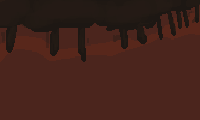
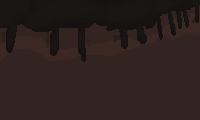
优化

Changed region(s): [[0.06, 0.025, 1.0, 0.525], [0.0, 0.35, 0.06, 0.525]]

diff --git a/PixelGame/src/scene/scenarios/ScenarioRoad.ts b/PixelGame/src/scene/scenarios/ScenarioRoad.ts
@@ -103,7 +103,7 @@ class ScenarioRoad extends Scenario{
         WheatupEvent.bind(EventType.DIALOGUE_END, this.onDialogueEnd, this);
         WheatupEvent.bind(EventType.ARRIVE, this.onArrive, this);
     }
-        
+    
     private unbindEvents():void{
         this.box_scene.removeEventListener(egret.TouchEvent.TOUCH_TAP, this.touchScene, this);
         this.box_engine.removeEventListener(egret.TouchEvent.TOUCH_TAP, this.touchEngine, this);
@@ -113,6 +113,10 @@ class ScenarioRoad extends Scenario{
         this.box_bush.removeEventListener(egret.TouchEvent.TOUCH_TAP, this.touchBush, this);
         WheatupEvent.unbind(EventType.DIALOGUE_END, this.onDialogueEnd);
         WheatupEvent.unbind(EventType.ARRIVE, this.onArrive);
+    }
+    
+    public onRemove(): void{
+        this.unbindEvents();
     }
 	
 	public start(): void{
@@ -133,6 +137,12 @@ class ScenarioRoad extends Scenario{
     private getConditions(): void {
         if(Data.getFlag(Flag.HasArrivedJungle)){
             this.setNight(0.7);
+            this.ui["bg1"].source = "bg_star";
+            this.ui["bg1_1"].source = "bg_star";
+            if(this.particle) {
+                this.grp_particle.removeElement(<any>this.particle);
+                this.particle = null;
+            }
         }
     }
     
@@ -160,14 +170,8 @@ class ScenarioRoad extends Scenario{
         this.ui["grp_bg1"].y = -(Math.round(this.cameraPosition.y * 0.2));
         this.ui["grp_playground"].x = -this.cameraPosition.x;
         this.ui["grp_playground"].y = -this.cameraPosition.y;
-        
-        
-//        this.grp_game.x = -this.cameraPosition.x;
-//        this.grp_game.y = -this.cameraPosition.y;
         this.grp_touch.x = -this.cameraPosition.x;
         this.grp_touch.y = -this.cameraPosition.y;
-        
-        
 	}
 	
     private touchScene(event: egret.TouchEvent):void{
@@ -263,9 +267,5 @@ class ScenarioRoad extends Scenario{
             Main.addScene(Main.LAYER_GAME, Main.scenarioBush);
             Main.scenarioBush.setPlayerPosition(30, 448);
         }
-    }
-    
-    public onRemove(): void{
-        this.unbindEvents();
     }
 }

diff --git a/PixelGame/bin-debug/src/scene/scenarios/ScenarioRoad.js b/PixelGame/bin-debug/src/scene/scenarios/ScenarioRoad.js
@@ -91,6 +91,9 @@ var ScenarioRoad = (function (_super) {
         WheatupEvent.unbind(EventType.DIALOGUE_END, this.onDialogueEnd);
         WheatupEvent.unbind(EventType.ARRIVE, this.onArrive);
     };
+    __egretProto__.onRemove = function () {
+        this.unbindEvents();
+    };
     __egretProto__.start = function () {
         this.getConditions();
         this.bindEvents();
@@ -108,6 +111,12 @@ var ScenarioRoad = (function (_super) {
     __egretProto__.getConditions = function () {
         if (Data.getFlag(1 /* HasArrivedJungle */)) {
             this.setNight(0.7);
+            this.ui["bg1"].source = "bg_star";
+            this.ui["bg1_1"].source = "bg_star";
+            if (this.particle) {
+                this.grp_particle.removeElement(this.particle);
+                this.particle = null;
+            }
         }
     };
     __egretProto__.update = function () {
@@ -130,8 +139,6 @@ var ScenarioRoad = (function (_super) {
         this.ui["grp_bg1"].y = -(Math.round(this.cameraPosition.y * 0.2));
         this.ui["grp_playground"].x = -this.cameraPosition.x;
         this.ui["grp_playground"].y = -this.cameraPosition.y;
-        //        this.grp_game.x = -this.cameraPosition.x;
-        //        this.grp_game.y = -this.cameraPosition.y;
         this.grp_touch.x = -this.cameraPosition.x;
         this.grp_touch.y = -this.cameraPosition.y;
     };
@@ -222,9 +229,6 @@ var ScenarioRoad = (function (_super) {
             Main.addScene(Main.LAYER_GAME, Main.scenarioBush);
             Main.scenarioBush.setPlayerPosition(30, 448);
         }
-    };
-    __egretProto__.onRemove = function () {
-        this.unbindEvents();
     };
     return ScenarioRoad;
 })(Scenario);

diff --git a/PixelGame/bin-debug/src/skins/scenario/ScenarioBushSkin.js b/PixelGame/bin-debug/src/skins/scenario/ScenarioBushSkin.js
@@ -56,7 +56,7 @@ var skins;
                 var t = new egret.gui.Group();
                 this.grp_bg1 = t;
                 this.__s(t, ["height", "width", "x", "y"], [480, 1600, 0, 0]);
-                t.elementsContent = [this.bg1_1_i()];
+                t.elementsContent = [this.bg1_i()];
                 return t;
             };
             __egretProto__.grp_bg2_i = function () {
@@ -113,13 +113,13 @@ var skins;
                 this.__s(t, ["height", "source", "width", "x", "y"], [480, "nightshade", 800, 0, 0]);
                 return t;
             };
-            __egretProto__.bg1_1_i = function () {
+            __egretProto__.bg1_i = function () {
                 var t = new egret.gui.UIAsset();
-                this.bg1_1 = t;
+                this.bg1 = t;
                 this.__s(t, ["height", "source", "width", "x", "y"], [480, "scene2_bg_1", 800, 0, 0]);
                 return t;
             };
-            ScenarioBushSkin._skinParts = ["bg1_1", "grp_bg1", "bg2_1", "grp_bg2", "grp_particle", "grp_playground", "bg3_1", "grp_bg3", "grp_game", "img_night", "grp_shade", "box_scene", "box_end1", "box_end2", "grp_touch"];
+            ScenarioBushSkin._skinParts = ["bg1", "grp_bg1", "bg2_1", "grp_bg2", "grp_particle", "grp_playground", "bg3_1", "grp_bg3", "grp_game", "img_night", "grp_shade", "box_scene", "box_end1", "box_end2", "grp_touch"];
             return ScenarioBushSkin;
         })(egret.gui.Skin);
         scenario.ScenarioBushSkin = ScenarioBushSkin;

diff --git a/PixelGame/src/core/Message.ts b/PixelGame/src/core/Message.ts
@@ -7,9 +7,6 @@
 class Message {
     public static receivedMessages: Array<string>;
     public static sendedMessages: Array<string>;
-    public static lastReceiveMessage: string;
-    public static lastSendMessage: string;
-    public static hasReplied: boolean;
     
     public static messageMap: Object;
     public static replies: Object;
@@ -53,17 +50,15 @@ class Message {
     }
     
     private static onRecieveMessage(data: any): void{
-        Message.hasReplied = false;
         Message.receivedMessages.push(data);
-        Message.lastReceiveMessage = data;
-        
-        
+        Data.setFlag(Flag.HasReplied, false);
+        Data.setFlag(Flag.LastReceiveMessage, data);
     }
         
     private static onSendMessage(data: any): void{
-        Message.hasReplied = true;
         Message.sendedMessages.push(data);
-        Message.lastSendMessage = data;
+        Data.setFlag(Flag.HasReplied, true);
+        Data.setFlag(Flag.LastSendMessage, data);
         
         switch(data){
             case "wife_rep_1_0":
@@ -101,12 +96,6 @@ class Message {
         return Message.replies[key];
     }
     
-    public key: string;
-    public isMe: boolean;
-    public text: string;
-    public constructor(key: string, isMe: boolean, text: string){
-        this.key = key;
-        this.isMe = isMe;
-        this.text = text;
-    }
+
+    public constructor(public key: string, public isMe: boolean, public text: string){}
 }

diff --git a/PixelGame/src/scene/scenarios/scene/CellphoneScene.ts b/PixelGame/src/scene/scenarios/scene/CellphoneScene.ts
@@ -91,7 +91,7 @@ class CellphoneScene extends Scene{
     public checkFlash():void{
         if(!this.isOpened) return;
         var canReply: string[] = ["wife_ask_2", "wife_ask_4"];
-        if(!Message.hasReplied && canReply.indexOf(Message.lastReceiveMessage) >= 0){
+        if(!Data.getFlag(Flag.HasReplied) && canReply.indexOf(Data.getFlag(Flag.LastReceiveMessage)) >= 0){
             this.showFlash();
         }else{
             this.hideFlash();
@@ -122,8 +122,8 @@ class CellphoneScene extends Scene{
     private currentReplyIndex: number = 0;
     private currentReplyMessage: Message;
     private touchInput(event: egret.TouchEvent):void{
-        if(Main.free && !Message.hasReplied) {
-            switch(Message.lastReceiveMessage){
+        if(Main.free && !Data.getFlag(Flag.HasReplied)) {
+            switch(Data.getFlag(Flag.LastReceiveMessage)){
                 case "wife_ask_2": 
                     this.switchReply("wife_rep_1");
                     break;
@@ -144,7 +144,7 @@ class CellphoneScene extends Scene{
     }
     
     private touchSend(event: egret.TouchEvent):void{
-        if(Main.free && !Message.hasReplied && this.currentReplyMessage != null) {
+        if(Main.free && !Data.getFlag(Flag.HasReplied) && this.currentReplyMessage != null) {
             this.lbl_input.text = "";
             this.addOneMessage(this.currentReplyMessage);
             this.currentReplyMessage = null;

diff --git a/PixelGame/bin-debug/src/scene/scenarios/scene/CellphoneScene.js b/PixelGame/bin-debug/src/scene/scenarios/scene/CellphoneScene.js
@@ -76,7 +76,7 @@ var CellphoneScene = (function (_super) {
         if (!this.isOpened)
             return;
         var canReply = ["wife_ask_2", "wife_ask_4"];
-        if (!Message.hasReplied && canReply.indexOf(Message.lastReceiveMessage) >= 0) {
+        if (!Data.getFlag(5 /* HasReplied */) && canReply.indexOf(Data.getFlag(4 /* LastReceiveMessage */)) >= 0) {
             this.showFlash();
         }
         else {
@@ -102,8 +102,8 @@ var CellphoneScene = (function (_super) {
         event.stopPropagation();
     };
     __egretProto__.touchInput = function (event) {
-        if (Main.free && !Message.hasReplied) {
-            switch (Message.lastReceiveMessage) {
+        if (Main.free && !Data.getFlag(5 /* HasReplied */)) {
+            switch (Data.getFlag(4 /* LastReceiveMessage */)) {
                 case "wife_ask_2":
                     this.switchReply("wife_rep_1");
                     break;
@@ -122,7 +122,7 @@ var CellphoneScene = (function (_super) {
         }
     };
     __egretProto__.touchSend = function (event) {
-        if (Main.free && !Message.hasReplied && this.currentReplyMessage != null) {
+        if (Main.free && !Data.getFlag(5 /* HasReplied */) && this.currentReplyMessage != null) {
             this.lbl_input.text = "";
             this.addOneMessage(this.currentReplyMessage);
             this.currentReplyMessage = null;

diff --git a/PixelGame/src/core/Data.ts b/PixelGame/src/core/Data.ts
@@ -25,13 +25,10 @@ class Data {
 }
 
 enum Flag{
-    HasCarBusted,       //车是否刚坏，这将控制是否出现道路的对话剧情
+    HasCarBusted,          //车是否刚坏，这将控制是否出现道路的对话剧情
     HasArrivedJungle,      //是否到达过丛林，这将控制是否天色已晚
-    GotShovel              //是否获得过铲子，这将控制车厢内是否有铲子
+    GotShovel,             //是否获得过铲子，这将控制车厢内是否有铲子
+    LastSendMessage,       //最后发送的短信
+    LastReceiveMessage,    //最后接收的短信
+    HasReplied             //是否已回复过短信
 }
-
-//class Flag{
-//    public static IsCarJustBusted = "IsCarJustBusted";        //车是否刚坏，这将控制是否出现道路的对话剧情
-//    public static HasArrivedJungle = "HasArrivedJungle";      //是否到达过丛林，这将控制是否天色已晚
-//    public static GotShovel = "GotShovel";                    //是否获得过铲子，这将控制车厢内是否有铲子
-//}

diff --git a/PixelGame/bin-debug/src/core/Data.js b/PixelGame/bin-debug/src/core/Data.js
@@ -29,11 +29,9 @@ var Flag;
 (function (Flag) {
     Flag[Flag["HasCarBusted"] = 0] = "HasCarBusted";
     Flag[Flag["HasArrivedJungle"] = 1] = "HasArrivedJungle";
-    Flag[Flag["GotShovel"] = 2] = "GotShovel"; //是否获得过铲子，这将控制车厢内是否有铲子
+    Flag[Flag["GotShovel"] = 2] = "GotShovel";
+    Flag[Flag["LastSendMessage"] = 3] = "LastSendMessage";
+    Flag[Flag["LastReceiveMessage"] = 4] = "LastReceiveMessage";
+    Flag[Flag["HasReplied"] = 5] = "HasReplied"; //是否已回复过短信
 })(Flag || (Flag = {}));
-//class Flag{
-//    public static IsCarJustBusted = "IsCarJustBusted";        //车是否刚坏，这将控制是否出现道路的对话剧情
-//    public static HasArrivedJungle = "HasArrivedJungle";      //是否到达过丛林，这将控制是否天色已晚
-//    public static GotShovel = "GotShovel";                    //是否获得过铲子，这将控制车厢内是否有铲子
-//} 
 //# sourceMappingURL=Data.js.map

diff --git a/PixelGame/bin-debug/src/skins/scenario/ScenarioJungleSkin.js b/PixelGame/bin-debug/src/skins/scenario/ScenarioJungleSkin.js
@@ -37,13 +37,13 @@ var skins;
             __egretProto__.box_end1_i = function () {
                 var t = new egret.gui.UIAsset();
                 this.box_end1 = t;
-                this.__s(t, ["height", "source", "width", "x", "y"], [107, "blank", 50, 0, 373]);
+                this.__s(t, ["height", "source", "width", "x", "y"], [123, "blank", 50, 0, 321]);
                 return t;
             };
             __egretProto__.box_end2_i = function () {
                 var t = new egret.gui.UIAsset();
                 this.box_end2 = t;
-                this.__s(t, ["height", "source", "width", "x", "y"], [100, "blank", 50, 2350, 380]);
+                this.__s(t, ["height", "source", "width", "x", "y"], [116, "blank", 74, 2326, 364]);
                 return t;
             };
             __egretProto__.box_scene_i = function () {

diff --git a/PixelGame/bin-debug/src/core/Message.js b/PixelGame/bin-debug/src/core/Message.js
@@ -42,14 +42,14 @@ var Message = (function () {
         WheatupEvent.bind(EventType.SEND_MESSAGE, Message.onSendMessage, Message);
     };
     Message.onRecieveMessage = function (data) {
-        Message.hasReplied = false;
         Message.receivedMessages.push(data);
-        Message.lastReceiveMessage = data;
+        Data.setFlag(5 /* HasReplied */, false);
+        Data.setFlag(4 /* LastReceiveMessage */, data);
     };
     Message.onSendMessage = function (data) {
-        Message.hasReplied = true;
         Message.sendedMessages.push(data);
-        Message.lastSendMessage = data;
+        Data.setFlag(5 /* HasReplied */, true);
+        Data.setFlag(3 /* LastSendMessage */, data);
         switch (data) {
             case "wife_rep_1_0":
                 Timer.addTimer(10000, 1, function () {

diff --git a/PixelGame/src/core/Dialogue.ts b/PixelGame/src/core/Dialogue.ts
@@ -95,11 +95,6 @@ class Dialogue {
 }
 
 class DialogueVO{
-    public name: string;
-    public text: string;
     public stream: boolean;
-    public constructor(name:string, text: string){
-        this.name = name;
-        this.text = text;
-    }
+    public constructor(public name:string, public text: string){}
 }

diff --git a/PixelGame/bin-debug/src/game_file_list.js b/PixelGame/bin-debug/src/game_file_list.js
@@ -6,11 +6,11 @@ var game_file_list = [
 	"util/Debug.js",
 	"core/Consts.js",
 	"util/WheatupEvent.js",
+	"core/Data.js",
 	"core/Dialogue.js",
 	"entity/Item.js",
 	"skins/scene/DialogueSkin.js",
 	"util/Timer.js",
-	"core/Data.js",
 	"core/Message.js",
 	"core/Sound.js",
 	"scene/DialogueScene.js",
